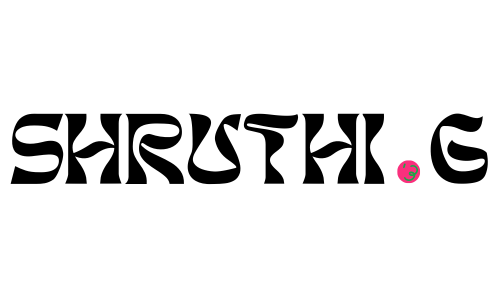
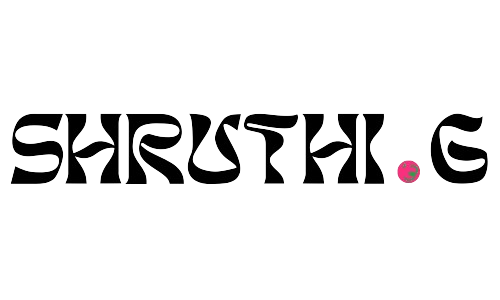
Updates

diff --git a/CSS/homepage.css b/CSS/homepage.css
@@ -6,7 +6,7 @@ margin-top: 15px;
 margin-bottom:30px; 
 margin-left:23px; 
 margin-right:20px;
-height: 3320px;
+height: 3400px;
 max-width: 1222px; 
 }
 
@@ -236,13 +236,9 @@ body {
 /* Images */
 
 .hero-photo {
-  width: 105%;
-  height: auto;
-  margin-top: 200px;
-  padding-left: 30px;
-  padding-right: 20px;
-  border: transparent;
-  border-radius: 30px;
+  margin-top: 280px;
+  margin-bottom: 50px;
+  margin-left: 730px;
 }
 
 .large-tag.hello {
@@ -254,7 +250,7 @@ body {
   height: 5ch;
   border: 2px solid black;
   border-radius: 100px;
-  margin-left: 150px;
+  margin-left: 135px;
   margin-top: -180px;
   justify-content: center;
   align-items: center;
@@ -279,7 +275,7 @@ div{
   height: 5ch;
   border: none;
   border-radius: 100px;
-  margin-left: 650px;
+  margin-left: 610px;
   margin-top: -115px;
   font-family:'Gill Sans', 'Gill Sans MT', 'Calibri', 'Trebuchet MS', sans-serif;
   font-size: 4vw;
@@ -291,13 +287,17 @@ div{
   height: 5ch;
   border: none;
   border-radius: 100px;
-  margin-left: 650px;
+  margin-left: 610px;
   margin-top: -205px;
   font-family:'Gill Sans', 'Gill Sans MT', 'Calibri', 'Trebuchet MS', sans-serif;
   font-size: 4vw;
   font-weight: 550;
 }
 
+.dots{
+  margin-left: 200px;
+  margin-top: -170px;
+}
 
 .profile-image {
   border: solid thin #f8256b;
@@ -949,7 +949,7 @@ margin-right: 290px;
     margin-bottom:20px; 
     margin-left:23px; 
     margin-right:20px;
-    height: 4000px;
+    height: 4030px;
     max-width: 2500px; 
     }
     
@@ -1174,14 +1174,11 @@ margin-right: 290px;
     /* Images */
     
     .hero-photo {
-      width: 105%;
-      height: auto;
-      margin-top: 300px;
-      padding-left: 30px;
-      padding-right: 20px;
-      border: transparent;
-      border-radius: 30px;
+      margin-top: 280px;
+      margin-bottom: 50px;
+      margin-left: 730px;
     }
+    
     
     .large-tag.hello {
       position: absolute;
@@ -1192,7 +1189,7 @@ margin-right: 290px;
       height: 5ch;
       border: 2px solid black;
       border-radius: 100px;
-      margin-left: 150px;
+      margin-left: 135px;
       margin-top: -260px;
       justify-content: center;
       align-items: center;
@@ -1218,7 +1215,7 @@ margin-right: 290px;
       height: 5ch;
       border: none;
       border-radius: 100px;
-      margin-left: 650px;
+      margin-left: 610px;
       margin-top: -115px;
       font-family:'Gill Sans', 'Gill Sans MT', 'Calibri', 'Trebuchet MS', sans-serif;
       font-size: 4vw;
@@ -1230,14 +1227,17 @@ margin-right: 290px;
       height: 5ch;
       border: none;
       border-radius: 100px;
-      margin-left: 650px;
+      margin-left: 610px;
       margin-top: -205px;
       font-family:'Gill Sans', 'Gill Sans MT', 'Calibri', 'Trebuchet MS', sans-serif;
       font-size: 4vw;
       font-weight: 550;
     }
     
-    
+    .dots{
+      margin-left: 200px;
+      margin-top: -170px;
+    }
     
     
     .profile-image {

diff --git a/index.html b/index.html
@@ -29,10 +29,11 @@ document.addEventListener('mousemove', (e) => {
     
     </script>
 
-<img class="hero-photo" src="Images/hello 3.png" alt="Hero photo;">
+<img class="hero-photo" src="Images/2.png" alt="Hero photo;" style="width: 350px; height: 200px;">
   <div class="large-tag hello"><h2 class="display-medium-alt homepage changing-text">Hello</h2></div>
   <div class="job-title">Product Designer</div>
   <div class="i-am">I am</div>
+  <img class="dots" src="Images/Dots.png" alt="Dots;" style="width: 800px; height: 200px;">
 
   <script type="text/javascript">
       $(function () {
